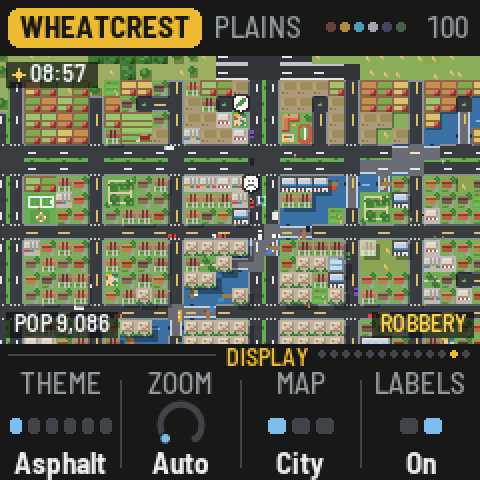
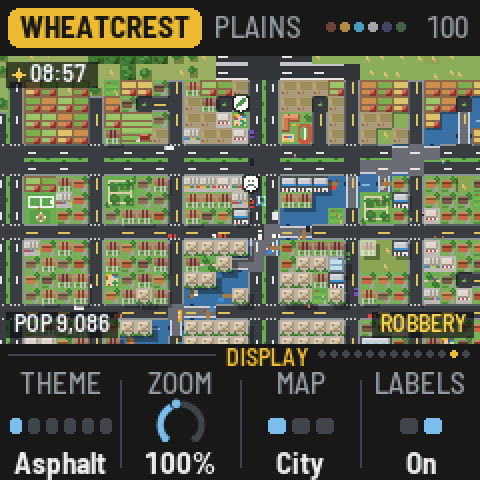
CTY-1: Zoom is the dial alone (25% to 300%, 100% to start)
Auto (the old Detail's fit-the-town) is gone: the camera always sits at the
dial's zoom. A setting saved as Auto reads as 100%.

Claude-Session: https://claude.ai/code/session_01RofyTqUrUWeG5MUXnyFj2B

Changed region(s): [[0.3125, 0.8125, 0.4688, 1.0]]

diff --git a/cty1/web/emu/index.html b/cty1/web/emu/index.html
@@ -241,7 +241,7 @@ body.stream .ctl.knob.sv-turn > circle:first-child { stroke: #ff9a3c; stroke-wid
       <div>
         <h3>Display <span>GLO twice</span></h3>
         <dl>
-          <dt>Theme</dt><dd>Asphalt, Neon, Blueprint, Sunset, Terminal, Mono: the frame; the city keeps its colours.</dd><dt>Zoom</dt><dd>A dial: Auto (fits a small town, then 100%), or 25% (the whole map) to 300% (close over the roofs).</dd><dt>Map</dt><dd>The city, its zones, or its land value.</dd><dt>Labels</dt><dd>The clock, the people, what the camera follows.</dd>
+          <dt>Theme</dt><dd>Asphalt, Neon, Blueprint, Sunset, Terminal, Mono: the frame; the city keeps its colours.</dd><dt>Zoom</dt><dd>A dial from 25% (the whole map) to 300% (close over the roofs); 100% to start.</dd><dt>Map</dt><dd>The city, its zones, or its land value.</dd><dt>Labels</dt><dd>The clock, the people, what the camera follows.</dd>
         </dl>
       </div>
       <div>

diff --git a/cty1/firmware/src/app/ui.c b/cty1/firmware/src/app/ui.c
@@ -824,7 +824,6 @@ static void game_input(uint32_t btn, uint32_t keys);
 static void game_pos(float *x, float *y);
 
 /* --------------------------------------------------------- the camera --- */
-static const uint8_t TS[7] = {12, 10, 8, 6, 4, 3, 2};
 static int fits_at(int s) { return (C.maxx - C.minx + 4) * s <= cam.vw && (C.maxy - C.miny + 4) * s <= cam.vh; }
 /* SEL: ride along with a car on screen (another each press) */
 static void ride_next(void)
@@ -911,25 +910,12 @@ static int solo_pick(void)                       /* the idle view: a car near th
 }
 static void cam_update(float dt)
 {
-    int mode = proj.par[P_ZOOM], mins, target, k;   /* Zoom: 0 Auto (fit the city, else 100%), else that close */
+    int mode = proj.par[P_ZOOM], target;         /* Zoom: the dial, 25% .. 300% (0, once Auto: 100%) */
     float tx = cam.x, ty = cam.y, rate = 0.03f, fx, fy;
     cam.vw = 240;
     cam.vh = ui.full || game_on() ? 240 : 144;
-    mins = 8;
-    target = mins;
-    if (mode > 0 && mode <= EN_NZOOM)            /* the dial: as close as asked */
-        target = EN_ZOOM_TS[mode];
-    else
-        for (k = 0; k < 7; k++) {
-            if (TS[k] < mins)
-                break;
-            if (fits_at(TS[k])) {
-                target = TS[k];
-                break;
-            }
-        }
-    if (!cam.ts || target < cam.ts || (mode > 0 && cam.ts != target) || (ui.full && cam.ts != target && !fits_at(cam.ts)))
-        cam.ts = target;
+    target = EN_ZOOM_TS[mode > 0 && mode <= EN_NZOOM ? mode : EN_ZOOM_100];   /* as close as the dial says */
+    cam.ts = target;
     if (game_on())                               /* the secret game: close in */
         cam.ts = target = G_TS;
     if (ui.full && !game_on()) {                 /* the idle view: ride with the cars, the incidents first */

diff --git a/cty1/firmware/src/dsp/amb.c b/cty1/firmware/src/dsp/amb.c
@@ -53,7 +53,7 @@ static const en_param_t PARAMS[P_NPARAMS] = {
     {"Lightning", 0, 20, 9}, {"Quakes", 0, 30, 6}, {"Robbery", 0, 60, 12}, {"Crashes", 0, 60, 10},
     {"UFOs", 0, 100, 3}, {"Follow", 0, 1, 1}, {"Disasters", 0, 1, 1}, {"Idle", 0, 3, 1},
     {"Key", 0, 12, 0}, {"Tune", -50, 50, 0}, {"Sync", 0, 1, 1}, {"Mood", 0, 2, 0},
-    {"Theme", 0, EN_NTHEMES - 1, 0}, {"Zoom", 0, EN_NZOOM, 0}, {"Map", 0, 2, 0}, {"Labels", 0, 1, 1},
+    {"Theme", 0, EN_NTHEMES - 1, 0}, {"Zoom", 1, EN_NZOOM, EN_ZOOM_100}, {"Map", 0, 2, 0}, {"Labels", 0, 1, 1},
     {"Sends", 0, 3, 1}, {"Channels", 0, 9, 0},
     {"Biome", 0, EN_NBIOME, 0}, {"Regional", 0, 20, 2}, {"Festivals", 0, 20, 3}, {"Blackouts", 0, 20, 1},
     {"Meteors", 0, 20, 3},
@@ -148,8 +148,9 @@ void en_param_text(int i, int v, char *b)
     case P_TUNE: if (v > 0) *b++ = '+'; b = itoa_s(v, b); cpy(b, "c"); return;
     case P_MOOD: cpy(b, MOOD[(unsigned)v < 3u ? v : 0]); return;
     case P_THEME: cpy(b, THEME[(unsigned)v < EN_NTHEMES ? v : 0]); return;
-    case P_ZOOM:                                 /* Auto, or how close: 25% (the whole map) .. 300% */
-        if (v <= 0 || v > EN_NZOOM) { cpy(b, "Auto"); return; }
+    case P_ZOOM:                                 /* how close: 25% (the whole map) .. 300% */
+        if (v <= 0 || v > EN_NZOOM)
+            v = EN_ZOOM_100;
         b = itoa_s(EN_ZOOM_TS[v] * 100 / 8, b);
         cpy(b, "%");
         return;

diff --git a/cty1/firmware/src/dsp/amb.h b/cty1/firmware/src/dsp/amb.h
@@ -56,7 +56,8 @@ enum {
     P_NPARAMS
 };
 #define EN_NTHEMES 6
-#define EN_NZOOM 14                     /* Zoom: 0 Auto, then 1..14 the tile size, out to in (EN_ZOOM_TS) */
+#define EN_NZOOM 14                     /* Zoom: 1..14 the tile size, out to in (EN_ZOOM_TS); 7 is 100% (0, once Auto, too) */
+#define EN_ZOOM_100 7
 extern const uint8_t EN_ZOOM_TS[EN_NZOOM + 1];
 typedef struct {
     const char *name;

diff --git a/cty1/docs/MANUAL.md b/cty1/docs/MANUAL.md
@@ -122,10 +122,9 @@ Hold any button for a second and a card says what it does. MIDI notes in play th
 - **The knob strip:** the page's name and the walk's dots, then the four knobs. The one being turned lights
   up.
 
-**The camera.** Zoom (Display, knob 2) is a dial: Auto, then 25% (the whole map) to 300% (close over the
-roofs), in fourteen steps. On Auto it fits the whole city while it's small, then holds at 100% and tours the
-newest and tallest buildings, a new one every few seconds; dialled in, it stays at that zoom and tours the same
-way (or centres the city, while it fits). An incident takes it (Follow);
+**The camera.** Zoom (Display, knob 2) is a dial from 25% (the whole map) to 300% (close over the roofs), in
+fourteen steps; 100% to start. The camera stays at that zoom: while the city fits on screen it centres it,
+then it tours the newest and tallest buildings, a new one every few seconds. An incident takes it (Follow);
 SEL rides with a car; ALGORITHM looks at the landmarks.
 
 **The idle view.** Untouched for a minute (Idle), the city takes the whole screen. The camera rides with one
@@ -406,7 +405,7 @@ disaster, a festival, a blackout, meteors, and the huge city's special putting o
 - **Setup:** Key (Seed: from the city's seed; or C to B), Tune (cents), Sync (Off or Clock), Mood (Auto, or
   kept Bright or Dark).
 - **Display:** Theme (Asphalt, Neon, Blueprint, Sunset, Terminal, Mono: the frame; the city keeps its own
-  colours), Zoom (a dial: Auto, or 25% to 300%), Map (the City, its Zones, its land Value), Labels.
+  colours), Zoom (a dial, 25% to 300%), Map (the City, its Zones, its land Value), Labels.
 - **MIDI out:** Sends (Off, Notes, Both, CCs), Channels (which seven), Lights (the key lights), CPU (the
   audio load).
 
